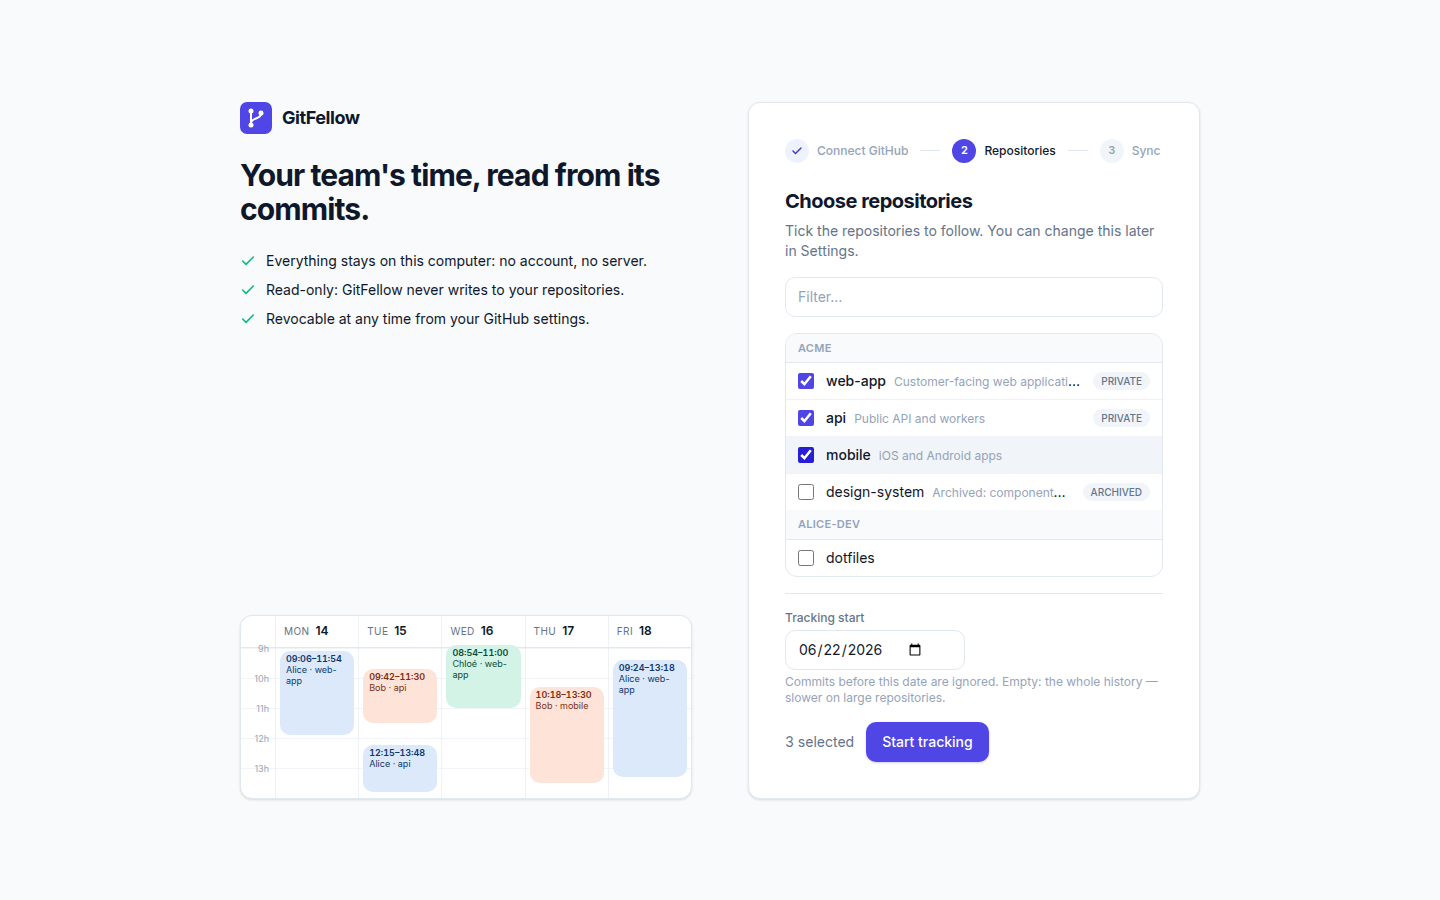
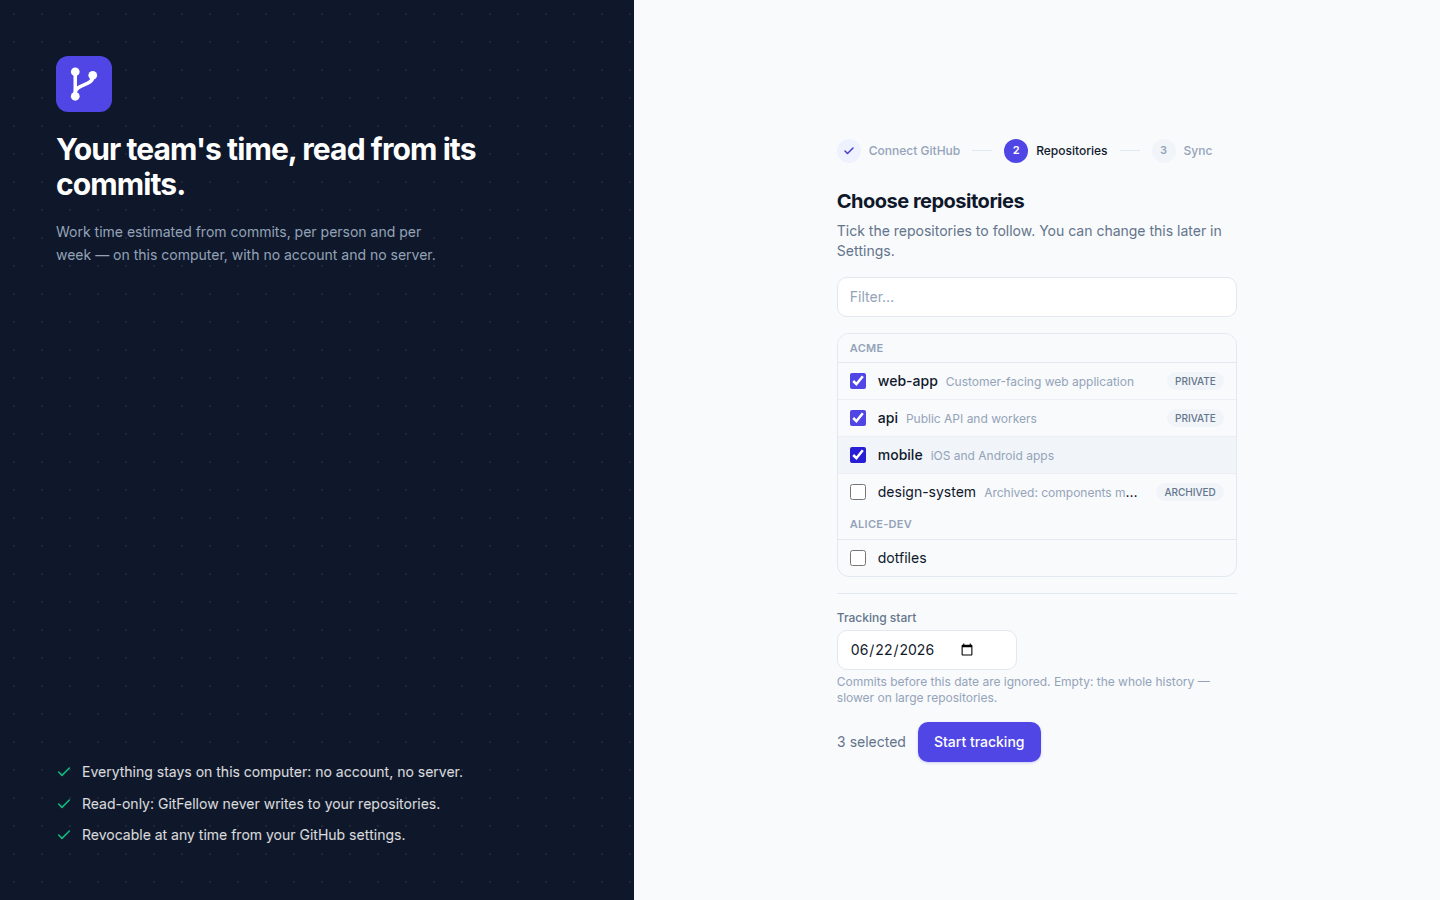
Assistant : un panneau d'encre porte la marque et les garanties
L'écran d'installation passe en deux moitiés. À gauche, sur fond
d'encre, le logo, la promesse, ce que fait GitFellow en une phrase, et
en bas les trois garanties — tout reste ici, lecture seule, révocable.
À droite, sur fond clair, l'étape elle-même, sans cadre : le panneau
tient la page, une carte de plus n'y ajoutait rien.

La note sous le bouton de connexion est justifiée sur sa largeur
exacte, pour que les deux blocs aient le même aplomb. L'aperçu de
calendrier disparaît avec la colonne qui l'accueillait.

Contrastes vérifiés sur l'encre : texte 6,96 : 1, coches 7,04 : 1.

Claude-Session: https://claude.ai/code/session_01STUNUM5TqyfuURKzmXqGVv

diff --git a/src/components/setup/SetupFrame.tsx b/src/components/setup/SetupFrame.tsx
@@ -2,44 +2,45 @@
 
 import { CheckIcon } from "@/components/icons";
 import { useI18n } from "@/i18n/client";
-import { ProductPeek } from "./ProductPeek";
 
 export type SetupStep = "github" | "repos" | "sync";
 const STEPS: SetupStep[] = ["github", "repos", "sync"];
 
 /**
- * Cadre de l'assistant : à gauche la promesse, les trois garanties et un aperçu du rapport ;
- * à droite la carte de l'étape. Les deux colonnes ont la même hauteur — la plus haute impose
- * la sienne, l'autre répartit son contenu de haut en bas.
+ * Cadre de l'assistant : un panneau d'encre porte la marque, la promesse et les trois garanties ;
+ * la moitié claire accueille l'étape, sans cadre — c'est le panneau qui tient la page.
  */
 export function SetupFrame({ step, children }: { step: SetupStep; children: React.ReactNode }) {
   const { m } = useI18n();
   const index = STEPS.indexOf(step);
   const guarantees = [m.setup.guarantees.local, m.setup.guarantees.readOnly, m.setup.guarantees.revocable];
-  return (
-    <main className="mx-auto flex min-h-screen w-full max-w-5xl flex-col justify-center px-4 py-10 md:px-8 md:py-16">
-      <div className="grid gap-8 md:grid-cols-2 md:gap-14">
-        {/* La marque et la promesse restent en haut ; l'aperçu se cale en bas, quelle que soit la hauteur de la carte. */}
-        <aside className="flex flex-col justify-between gap-8">
-          <div className="flex flex-col gap-6">
-            <div className="flex items-center gap-2.5">
-              <img src="/gitfellow-logo.svg" alt="" width={32} height={32} style={{ width: 32, height: 32 }} />
-              <span className="text-lg font-bold tracking-tight">{m.app.name}</span>
-            </div>
-            <h1 className="text-[28px] leading-[1.15] font-bold tracking-[-0.03em] md:text-3xl">{m.setup.promise}</h1>
-            <ul className="flex flex-col gap-2.5">
-              {guarantees.map((text) => (
-                <li key={text} className="flex items-start gap-2.5 text-sm leading-snug">
-                  <CheckIcon className="mt-0.5 h-4 w-4 shrink-0 text-good" strokeWidth={2.4} />
-                  <span>{text}</span>
-                </li>
-              ))}
-            </ul>
-          </div>
-          <ProductPeek />
-        </aside>
 
-        <section className="flex flex-col rounded-xl border border-line bg-surface p-7 shadow-sm md:p-9">
+  return (
+    <main className="flex min-h-screen flex-col md:grid md:grid-cols-[44%_1fr]">
+      <aside className="relative flex flex-col justify-between gap-10 overflow-hidden bg-ink px-8 py-10 text-white md:px-14 md:py-14">
+        {/* Trame discrète : le fond sombre respire sans rien raconter. */}
+        <div
+          aria-hidden
+          className="absolute inset-0 opacity-[0.07]"
+          style={{ backgroundImage: "radial-gradient(#fff 1px, transparent 1px)", backgroundSize: "28px 28px" }}
+        />
+        <div className="relative flex flex-col gap-5">
+          <img src="/gitfellow-logo.svg" alt="" width={56} height={56} style={{ width: 56, height: 56 }} />
+          <h1 className="text-[26px] leading-[1.15] font-bold tracking-[-0.03em] md:text-3xl">{m.setup.promise}</h1>
+          <p className="max-w-sm text-sm leading-relaxed text-muted">{m.setup.tagline}</p>
+        </div>
+        <ul className="relative flex flex-col gap-3">
+          {guarantees.map((text) => (
+            <li key={text} className="flex items-start gap-2.5 text-sm leading-snug text-white/85">
+              <CheckIcon className="mt-0.5 h-4 w-4 shrink-0 text-good" strokeWidth={2.4} />
+              <span>{text}</span>
+            </li>
+          ))}
+        </ul>
+      </aside>
+
+      <section className="flex flex-1 items-center justify-center px-6 py-10 md:px-12 md:py-14">
+        <div className="flex w-full max-w-[400px] flex-col gap-6">
           <ol className="flex flex-wrap items-center gap-2 text-xs font-medium" aria-label={m.setup.title}>
             {STEPS.map((s, i) => {
               const done = i < index;
@@ -60,9 +61,9 @@ export function SetupFrame({ step, children }: { step: SetupStep; children: Reac
               );
             })}
           </ol>
-          <div className="mt-6 flex flex-1 flex-col">{children}</div>
-        </section>
-      </div>
+          {children}
+        </div>
+      </section>
     </main>
   );
 }

diff --git a/src/components/setup/ConnectGitHub.tsx b/src/components/setup/ConnectGitHub.tsx
@@ -67,7 +67,7 @@ export function ConnectGitHub({ deviceFlow }: { deviceFlow: boolean }) {
 
   if (phase.kind === "code") {
     return (
-      <div className="flex flex-1 flex-col gap-5">
+      <div className="flex flex-col gap-5">
         <div>
           <h2 className="text-xl font-bold tracking-tight">{g.codeTitle}</h2>
           <p className="mt-1.5 text-sm text-ink-2">{g.codeIntro}</p>
@@ -86,7 +86,7 @@ export function ConnectGitHub({ deviceFlow }: { deviceFlow: boolean }) {
           <span className="inline-block h-2 w-2 shrink-0 animate-pulse rounded-full bg-accent" aria-hidden />
           {t(g.waitingFor, { minutes: Math.max(1, Math.round(phase.code.expiresIn / 60)) })}
         </p>
-        <div className="mt-auto border-t border-line pt-4">
+        <div className="border-t border-line pt-5">
           <button type="button" onClick={() => setPhase(IDLE)} className="text-sm text-ink-2 underline-offset-[3px] hover:text-ink hover:underline">
             {g.cancel}
           </button>
@@ -108,7 +108,8 @@ export function ConnectGitHub({ deviceFlow }: { deviceFlow: boolean }) {
             <GitHubIcon />
             {phase.error ? g.retry : g.device}
           </button>
-          <p className="text-xs leading-relaxed text-muted">{g.codeNote}</p>
+          {/* Justifiée sur la largeur du bouton : le bloc de texte a le même aplomb que lui. */}
+          <p className="w-full text-justify text-xs leading-relaxed text-muted">{g.codeNote}</p>
         </>
       ) : (
         <>
@@ -117,7 +118,7 @@ export function ConnectGitHub({ deviceFlow }: { deviceFlow: boolean }) {
         </>
       )}
 
-      <div className={`${deviceFlow ? "mt-auto border-t border-line pt-4" : ""}`}>
+      <div className={deviceFlow ? "border-t border-line pt-5" : ""}>
         {tokenOpen ? (
           <TokenForm withTitle={deviceFlow} />
         ) : (

diff --git a/src/i18n/fr.ts b/src/i18n/fr.ts
@@ -193,12 +193,12 @@ export const fr: Messages = {
     steps: { github: "Connecter GitHub", repos: "Choisir les dépôts", sync: "Première synchronisation" },
     stepsShort: { github: "Connecter GitHub", repos: "Dépôts", sync: "Synchro" },
     promise: "Le temps de votre équipe, lu dans ses commits.",
+    tagline: "Le temps de travail estimé à partir des commits, par personne et par semaine — sur cet ordinateur, sans compte ni serveur.",
     guarantees: {
       local: "Tout reste sur cet ordinateur : ni compte, ni serveur.",
       readOnly: "Lecture seule : GitFellow n'écrit jamais dans vos dépôts.",
       revocable: "Révocable à tout moment depuis vos réglages GitHub.",
     },
-    peek: { people: ["Alice", "Bob", "Chloé"], repos: ["web-app", "api", "mobile"] },
     github: {
       intro: "GitFellow lit les commits de vos dépôts avec votre compte GitHub. Rien ne quitte cette machine, hormis les appels à GitHub.",
       connectTitle: "Connectez votre compte",

diff --git a/src/i18n/en.ts b/src/i18n/en.ts
@@ -197,12 +197,12 @@ export const en = {
     steps: { github: "Connect GitHub", repos: "Choose repositories", sync: "First sync" },
     stepsShort: { github: "Connect GitHub", repos: "Repositories", sync: "Sync" },
     promise: "Your team's time, read from its commits.",
+    tagline: "Work time estimated from commits, per person and per week — on this computer, with no account and no server.",
     guarantees: {
       local: "Everything stays on this computer: no account, no server.",
       readOnly: "Read-only: GitFellow never writes to your repositories.",
       revocable: "Revocable at any time from your GitHub settings.",
     },
-    peek: { people: ["Alice", "Bob", "Chloé"], repos: ["web-app", "api", "mobile"] },
     github: {
       intro: "GitFellow reads the commits of your repositories with your GitHub account. Nothing leaves this machine except the calls to GitHub.",
       connectTitle: "Connect your account",
